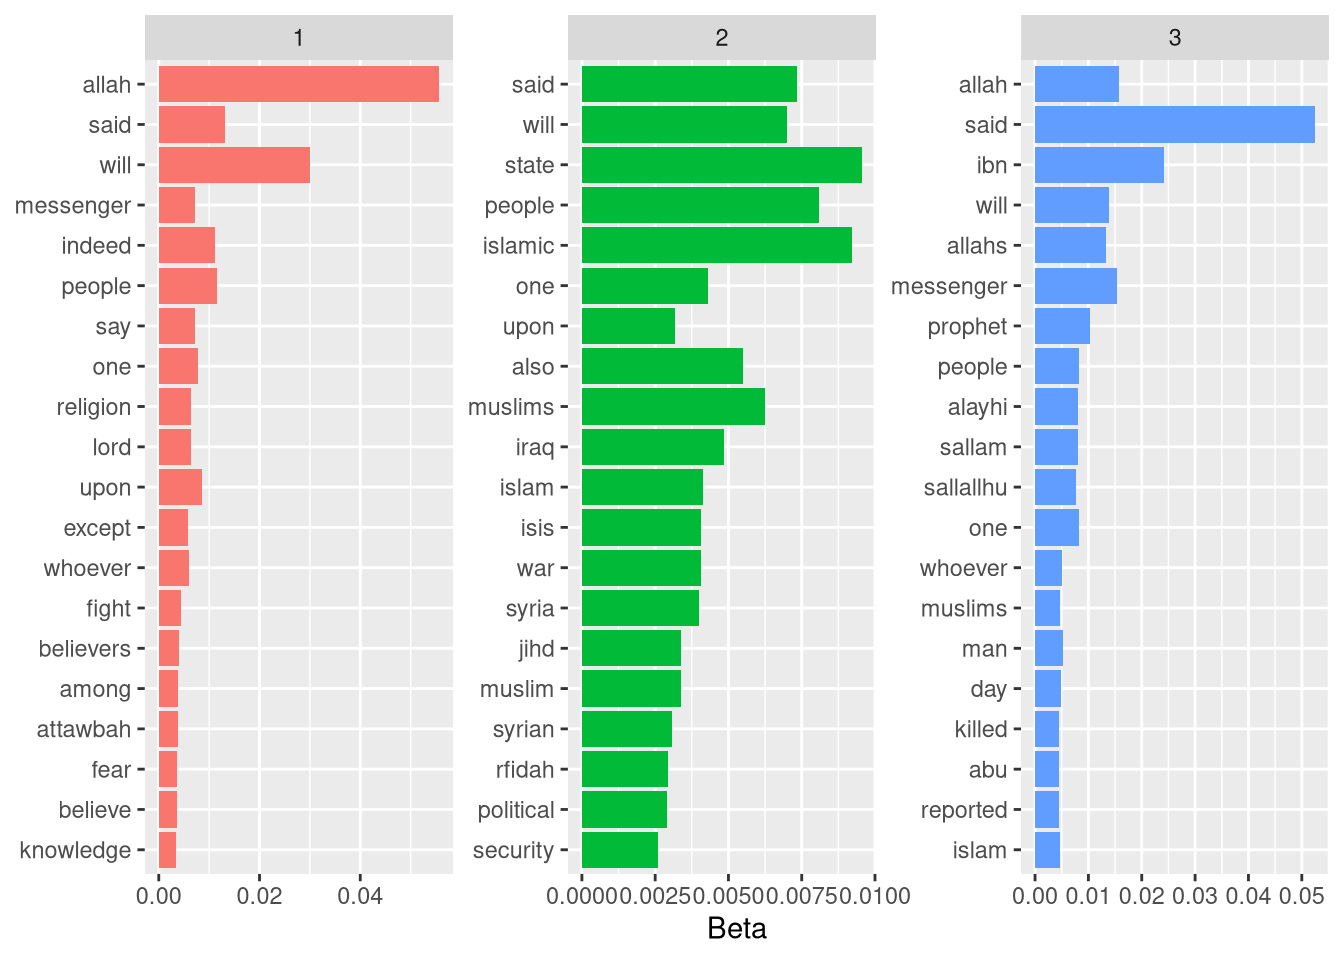
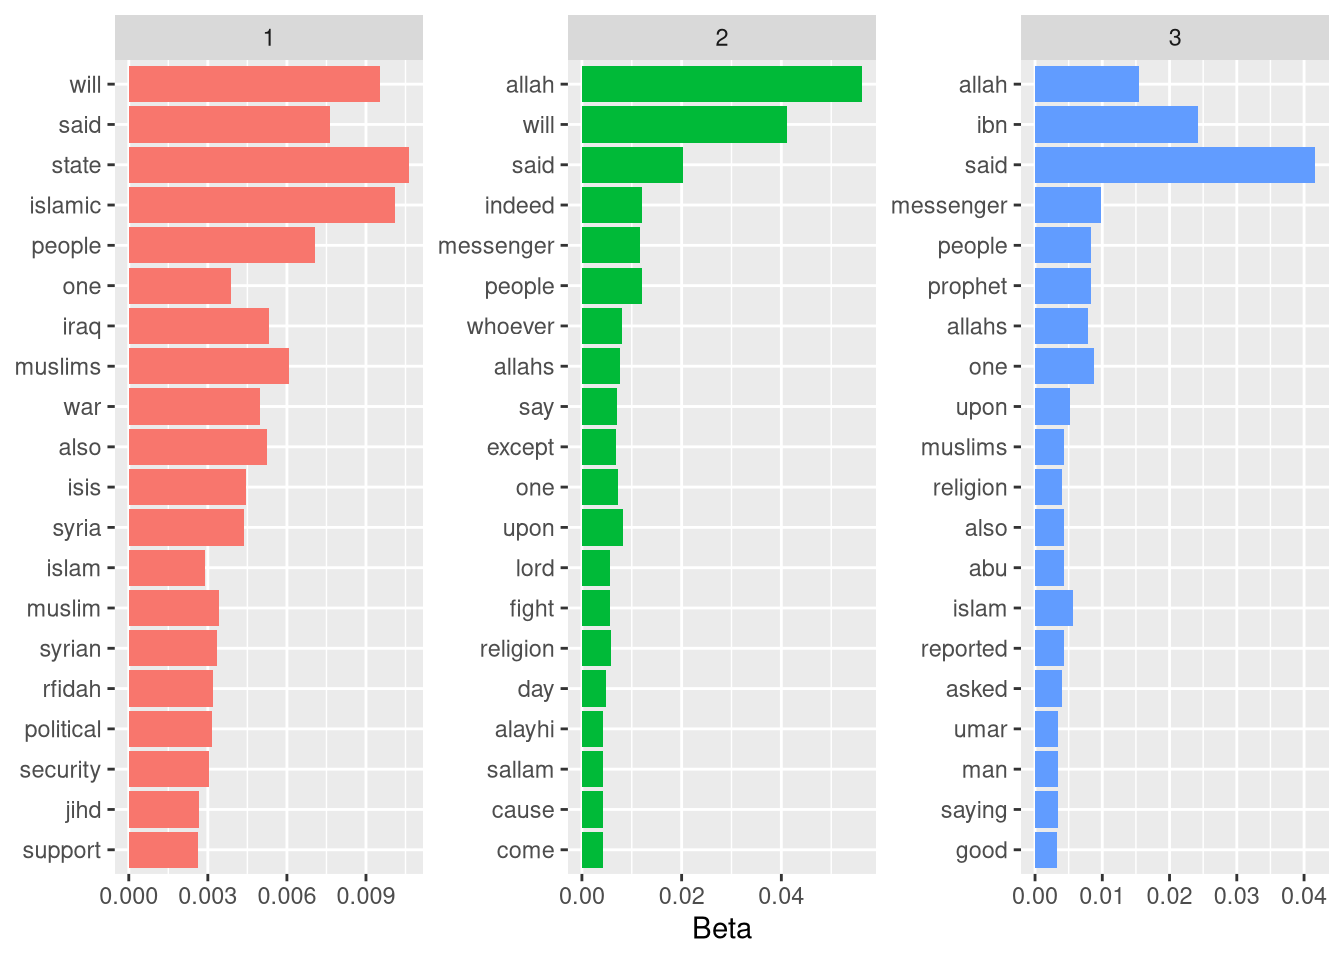
kkkkk

diff --git a/public/post/isis-nlp-analysis/index.html b/public/post/isis-nlp-analysis/index.html
@@ -23,7 +23,7 @@
 
 
 
-<meta name="generator" content="Hugo 0.67.1 with theme even" />
+<meta name="generator" content="Hugo 0.69.1 with theme even" />
 
 
 <link rel="canonical" href="https://alphabetsigma.netlify.app/post/isis-nlp-analysis/" />
@@ -219,18 +219,18 @@ res = dataset %&gt;%
     
 res</code></pre>
 <pre><code>## # A tibble: 60 x 3
-##    topic term         beta
-##    &lt;int&gt; &lt;chr&gt;       &lt;dbl&gt;
-##  1     1 allah     0.0557 
-##  2     1 will      0.0299 
-##  3     1 said      0.0131 
-##  4     1 people    0.0116 
-##  5     1 indeed    0.0112 
-##  6     1 upon      0.00868
-##  7     1 one       0.00779
-##  8     1 messenger 0.00723
-##  9     1 say       0.00715
-## 10     1 religion  0.00646
+##    topic term       beta
+##    &lt;int&gt; &lt;chr&gt;     &lt;dbl&gt;
+##  1     1 state   0.0106 
+##  2     1 islamic 0.0101 
+##  3     1 will    0.00953
+##  4     1 said    0.00765
+##  5     1 people  0.00707
+##  6     1 muslims 0.00609
+##  7     1 iraq    0.00532
+##  8     1 also    0.00525
+##  9     1 war     0.00497
+## 10     1 isis    0.00446
 ## # … with 50 more rows</code></pre>
 <p>O trecho acima é bem auto-explicativo, até mesmo devido aos comentários no código. Informações extras podem ser encontradas na documentação das funções.</p>
 <p>Vamos plotar as informações que conseguimos, assim é possível visualizarmos melhor o resultado.</p>

diff --git a/content/post/2020-04-22-escola-isis-de-radicalizacao-religiosa-uma-analise-com-nlp.html b/content/post/2020-04-22-escola-isis-de-radicalizacao-religiosa-uma-analise-com-nlp.html
@@ -92,18 +92,18 @@ res = dataset %&gt;%
     
 res</code></pre>
 <pre><code>## # A tibble: 60 x 3
-##    topic term         beta
-##    &lt;int&gt; &lt;chr&gt;       &lt;dbl&gt;
-##  1     1 allah     0.0557 
-##  2     1 will      0.0299 
-##  3     1 said      0.0131 
-##  4     1 people    0.0116 
-##  5     1 indeed    0.0112 
-##  6     1 upon      0.00868
-##  7     1 one       0.00779
-##  8     1 messenger 0.00723
-##  9     1 say       0.00715
-## 10     1 religion  0.00646
+##    topic term       beta
+##    &lt;int&gt; &lt;chr&gt;     &lt;dbl&gt;
+##  1     1 state   0.0106 
+##  2     1 islamic 0.0101 
+##  3     1 will    0.00953
+##  4     1 said    0.00765
+##  5     1 people  0.00707
+##  6     1 muslims 0.00609
+##  7     1 iraq    0.00532
+##  8     1 also    0.00525
+##  9     1 war     0.00497
+## 10     1 isis    0.00446
 ## # … with 50 more rows</code></pre>
 <p>O trecho acima é bem auto-explicativo, até mesmo devido aos comentários no código. Informações extras podem ser encontradas na documentação das funções.</p>
 <p>Vamos plotar as informações que conseguimos, assim é possível visualizarmos melhor o resultado.</p>

diff --git a/public/about/index.html b/public/about/index.html
@@ -24,7 +24,7 @@ Meu nome é João Pedro Oliveira, eu sou graduando e pesquisador da área de Rel
 
 
 
-<meta name="generator" content="Hugo 0.67.1 with theme even" />
+<meta name="generator" content="Hugo 0.69.1 with theme even" />
 
 
 <link rel="canonical" href="https://alphabetsigma.netlify.app/about/" />

diff --git a/public/categories/dificuldade-intermediária/index.html b/public/categories/dificuldade-intermediária/index.html
@@ -23,7 +23,7 @@
 
 
 
-<meta name="generator" content="Hugo 0.67.1 with theme even" />
+<meta name="generator" content="Hugo 0.69.1 with theme even" />
 
 
 <link rel="canonical" href="https://alphabetsigma.netlify.app/categories/dificuldade-intermedi%C3%A1ria/" />

diff --git a/public/post/introducao-as-expressoes-regulares/index.html b/public/post/introducao-as-expressoes-regulares/index.html
@@ -23,7 +23,7 @@
 
 
 
-<meta name="generator" content="Hugo 0.67.1 with theme even" />
+<meta name="generator" content="Hugo 0.69.1 with theme even" />
 
 
 <link rel="canonical" href="https://alphabetsigma.netlify.app/post/introducao-as-expressoes-regulares/" />

diff --git a/public/categories/dificuldade-intermediaria/index.html b/public/categories/dificuldade-intermediaria/index.html
@@ -23,7 +23,7 @@
 
 
 
-<meta name="generator" content="Hugo 0.67.1 with theme even" />
+<meta name="generator" content="Hugo 0.69.1 with theme even" />
 
 
 <link rel="canonical" href="https://alphabetsigma.netlify.app/categories/dificuldade-intermediaria/" />

diff --git a/content/post/2020-03-18-o-que-sao-funcoes-e-como-utiliza-las.html b/content/post/2020-03-18-o-que-sao-funcoes-e-como-utiliza-las.html
@@ -14,7 +14,7 @@ layout: post
 type: post
 highlight: yes
 draft: true
-Description: 'Nessa publicação aplico o modelo LDA em um dataset que contém artigos de revista utilizados pelo Estado Islâmico em sua propaganda política.'
+
 ---
 
 

diff --git a/public/categories/lda/index.html b/public/categories/lda/index.html
@@ -23,7 +23,7 @@
 
 
 
-<meta name="generator" content="Hugo 0.67.1 with theme even" />
+<meta name="generator" content="Hugo 0.69.1 with theme even" />
 
 
 <link rel="canonical" href="https://alphabetsigma.netlify.app/categories/lda/" />

diff --git a/public/categories/nlp/index.html b/public/categories/nlp/index.html
@@ -23,7 +23,7 @@
 
 
 
-<meta name="generator" content="Hugo 0.67.1 with theme even" />
+<meta name="generator" content="Hugo 0.69.1 with theme even" />
 
 
 <link rel="canonical" href="https://alphabetsigma.netlify.app/categories/nlp/" />

diff --git a/public/categories/index.html b/public/categories/index.html
@@ -23,7 +23,7 @@
 
 
 
-<meta name="generator" content="Hugo 0.67.1 with theme even" />
+<meta name="generator" content="Hugo 0.69.1 with theme even" />
 
 
 <link rel="canonical" href="https://alphabetsigma.netlify.app/categories/" />

diff --git a/public/tags/regex/index.html b/public/tags/regex/index.html
@@ -23,7 +23,7 @@
 
 
 
-<meta name="generator" content="Hugo 0.67.1 with theme even" />
+<meta name="generator" content="Hugo 0.69.1 with theme even" />
 
 
 <link rel="canonical" href="https://alphabetsigma.netlify.app/tags/regex/" />

diff --git a/public/tags/nlp/index.html b/public/tags/nlp/index.html
@@ -23,7 +23,7 @@
 
 
 
-<meta name="generator" content="Hugo 0.67.1 with theme even" />
+<meta name="generator" content="Hugo 0.69.1 with theme even" />
 
 
 <link rel="canonical" href="https://alphabetsigma.netlify.app/tags/nlp/" />
